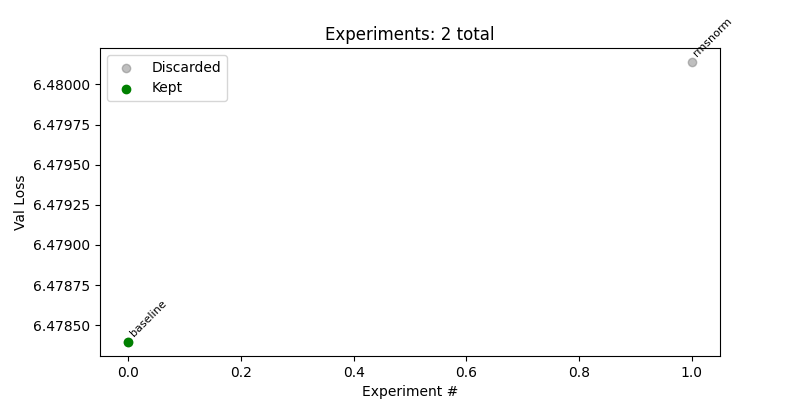
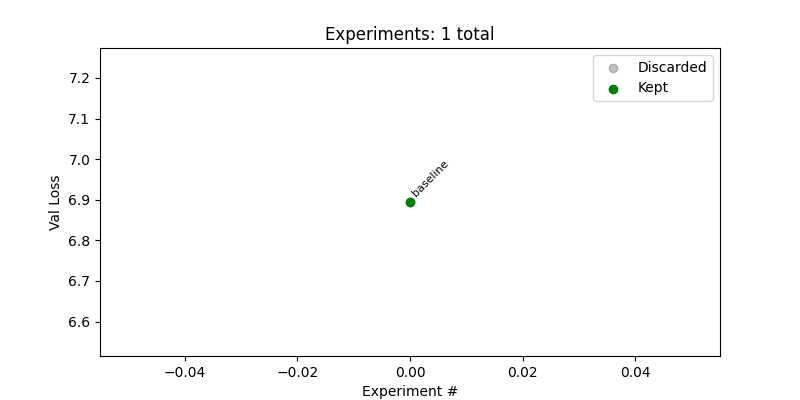
rmsnorm again

diff --git a/model.py b/model.py
@@ -76,7 +76,7 @@ class GPT(nn.Module):
             wte = nn.Embedding(config.vocab_size, config.n_embd),
             wpe = nn.Embedding(config.block_size, config.n_embd),
             h = nn.ModuleList([Block(config) for _ in range(config.n_layer)]),
-            ln_f = nn.LayerNorm(config.n_embd)
+            ln_f = nn.RMSNorm(config.n_embd)
         ))
         self.lm_head = nn.Linear(config.n_embd, config.vocab_size, bias=False)
         self.transformer.wte.weight = self.lm_head.weight
